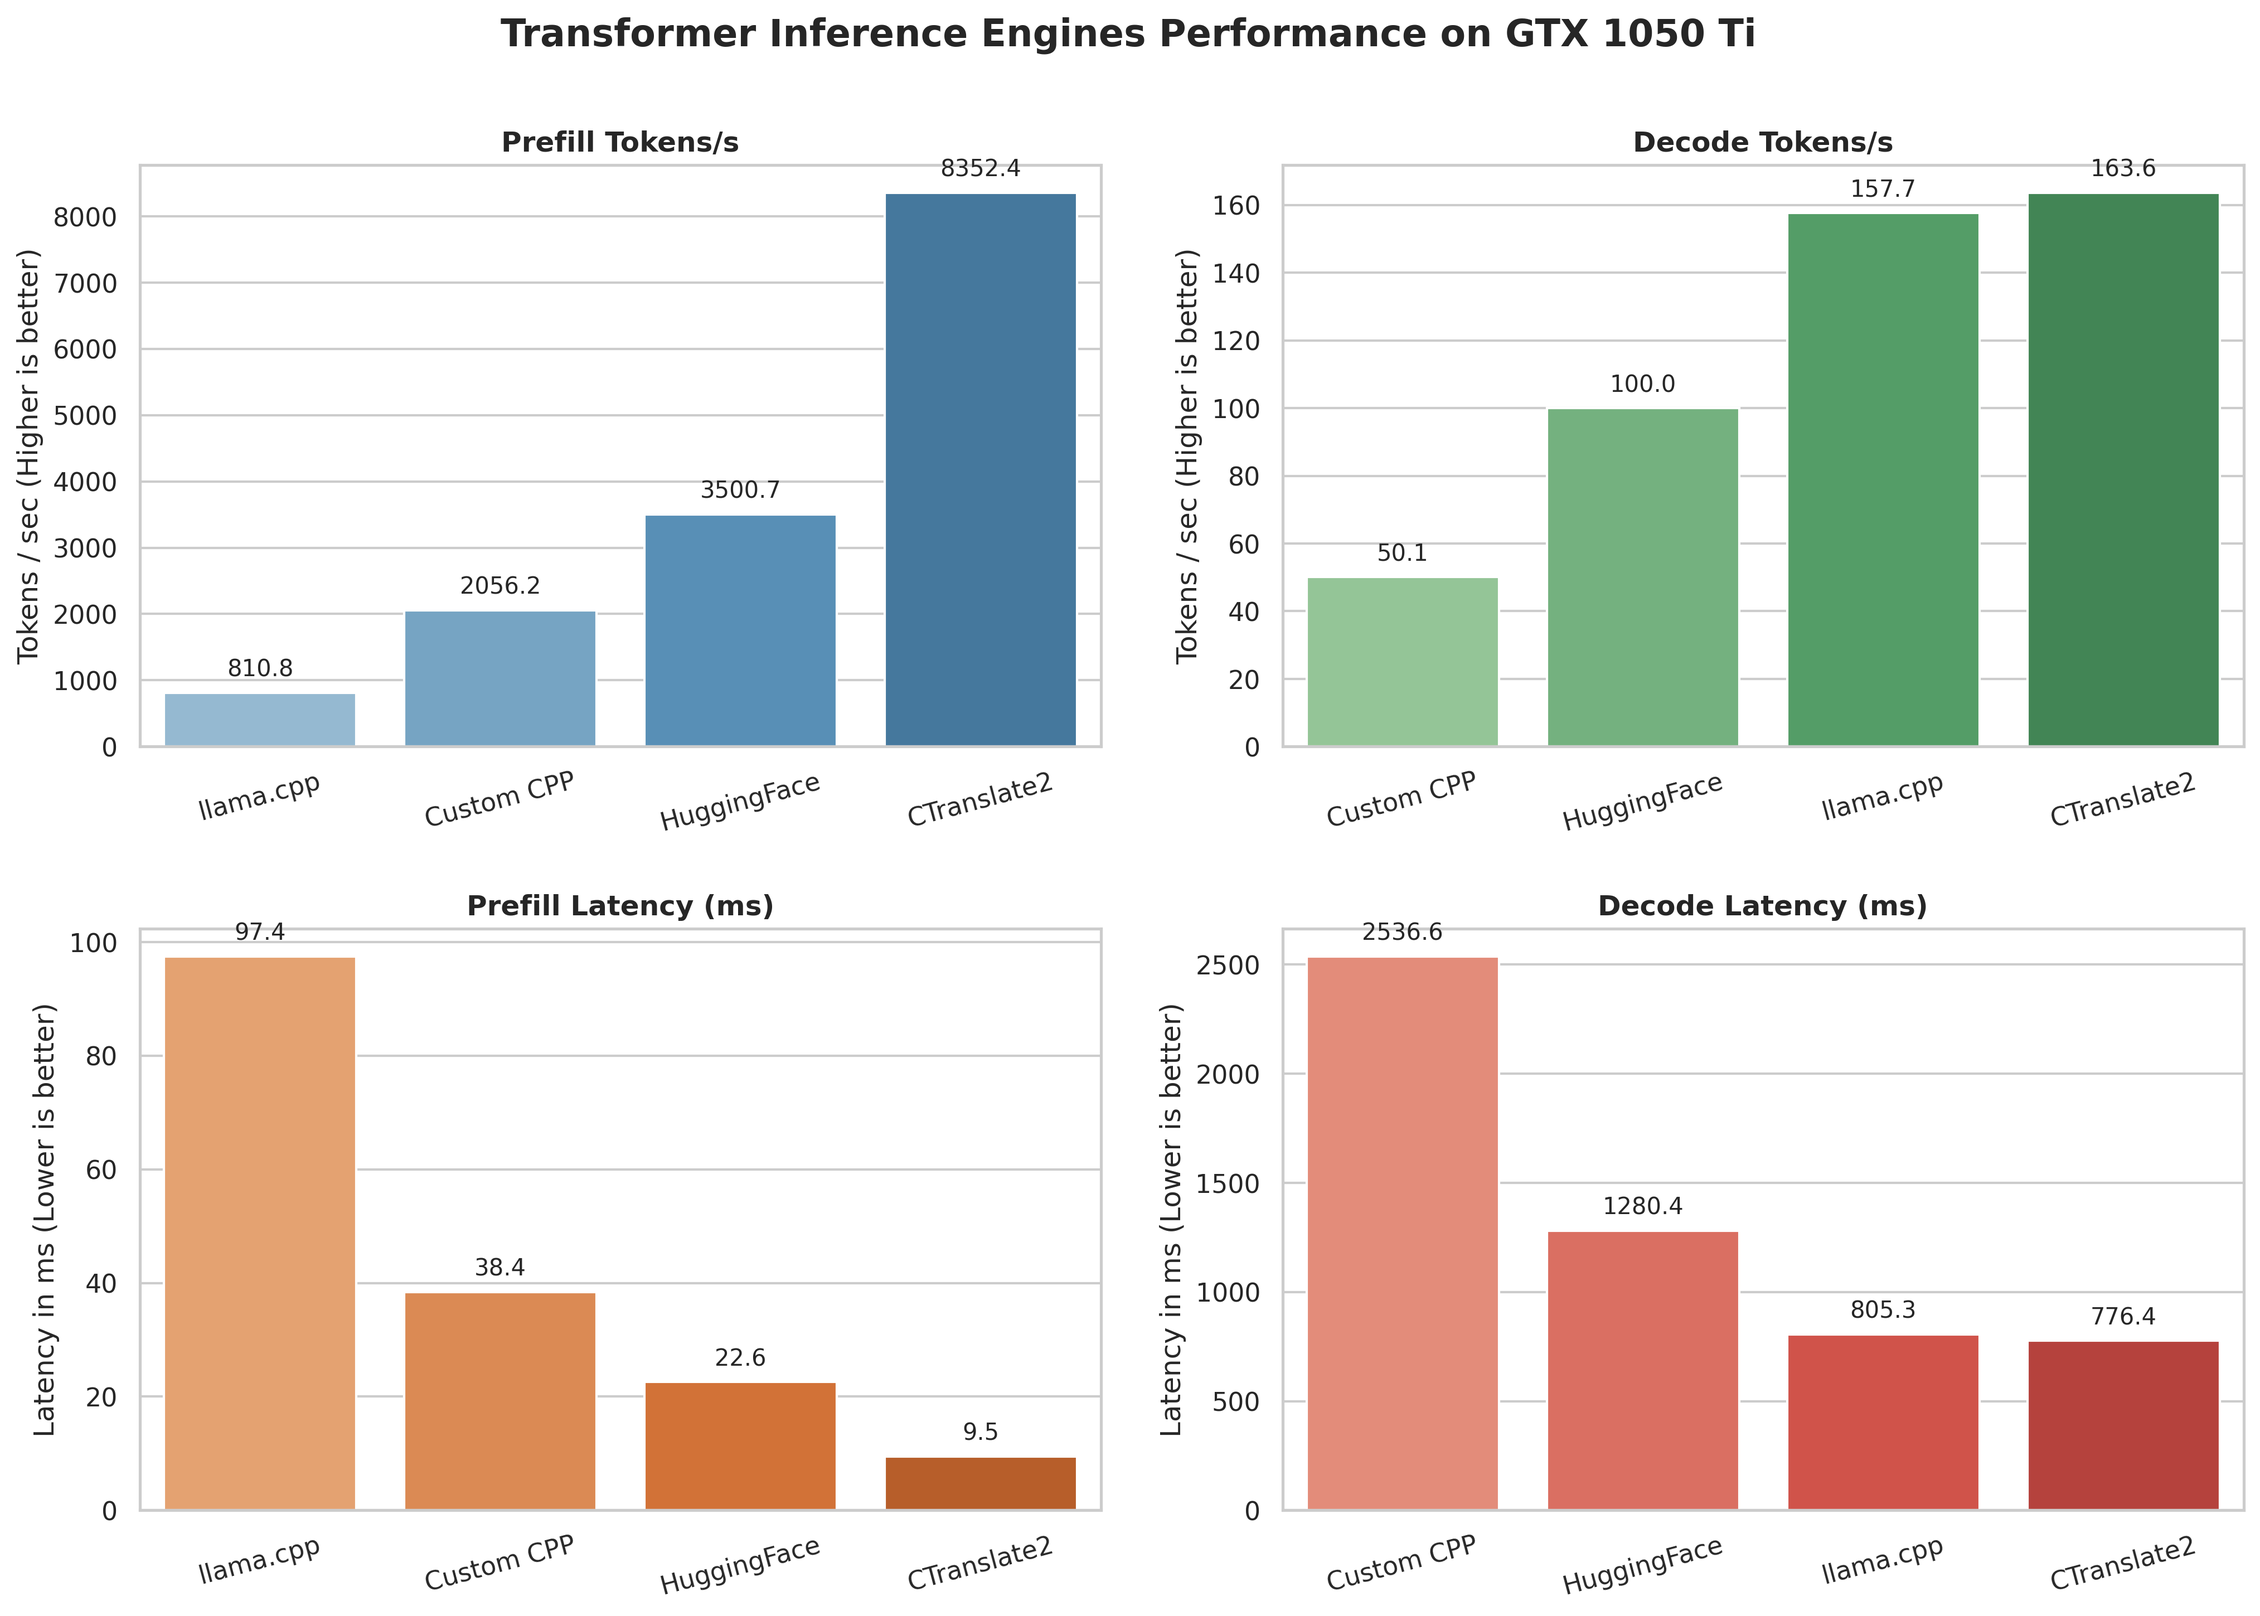
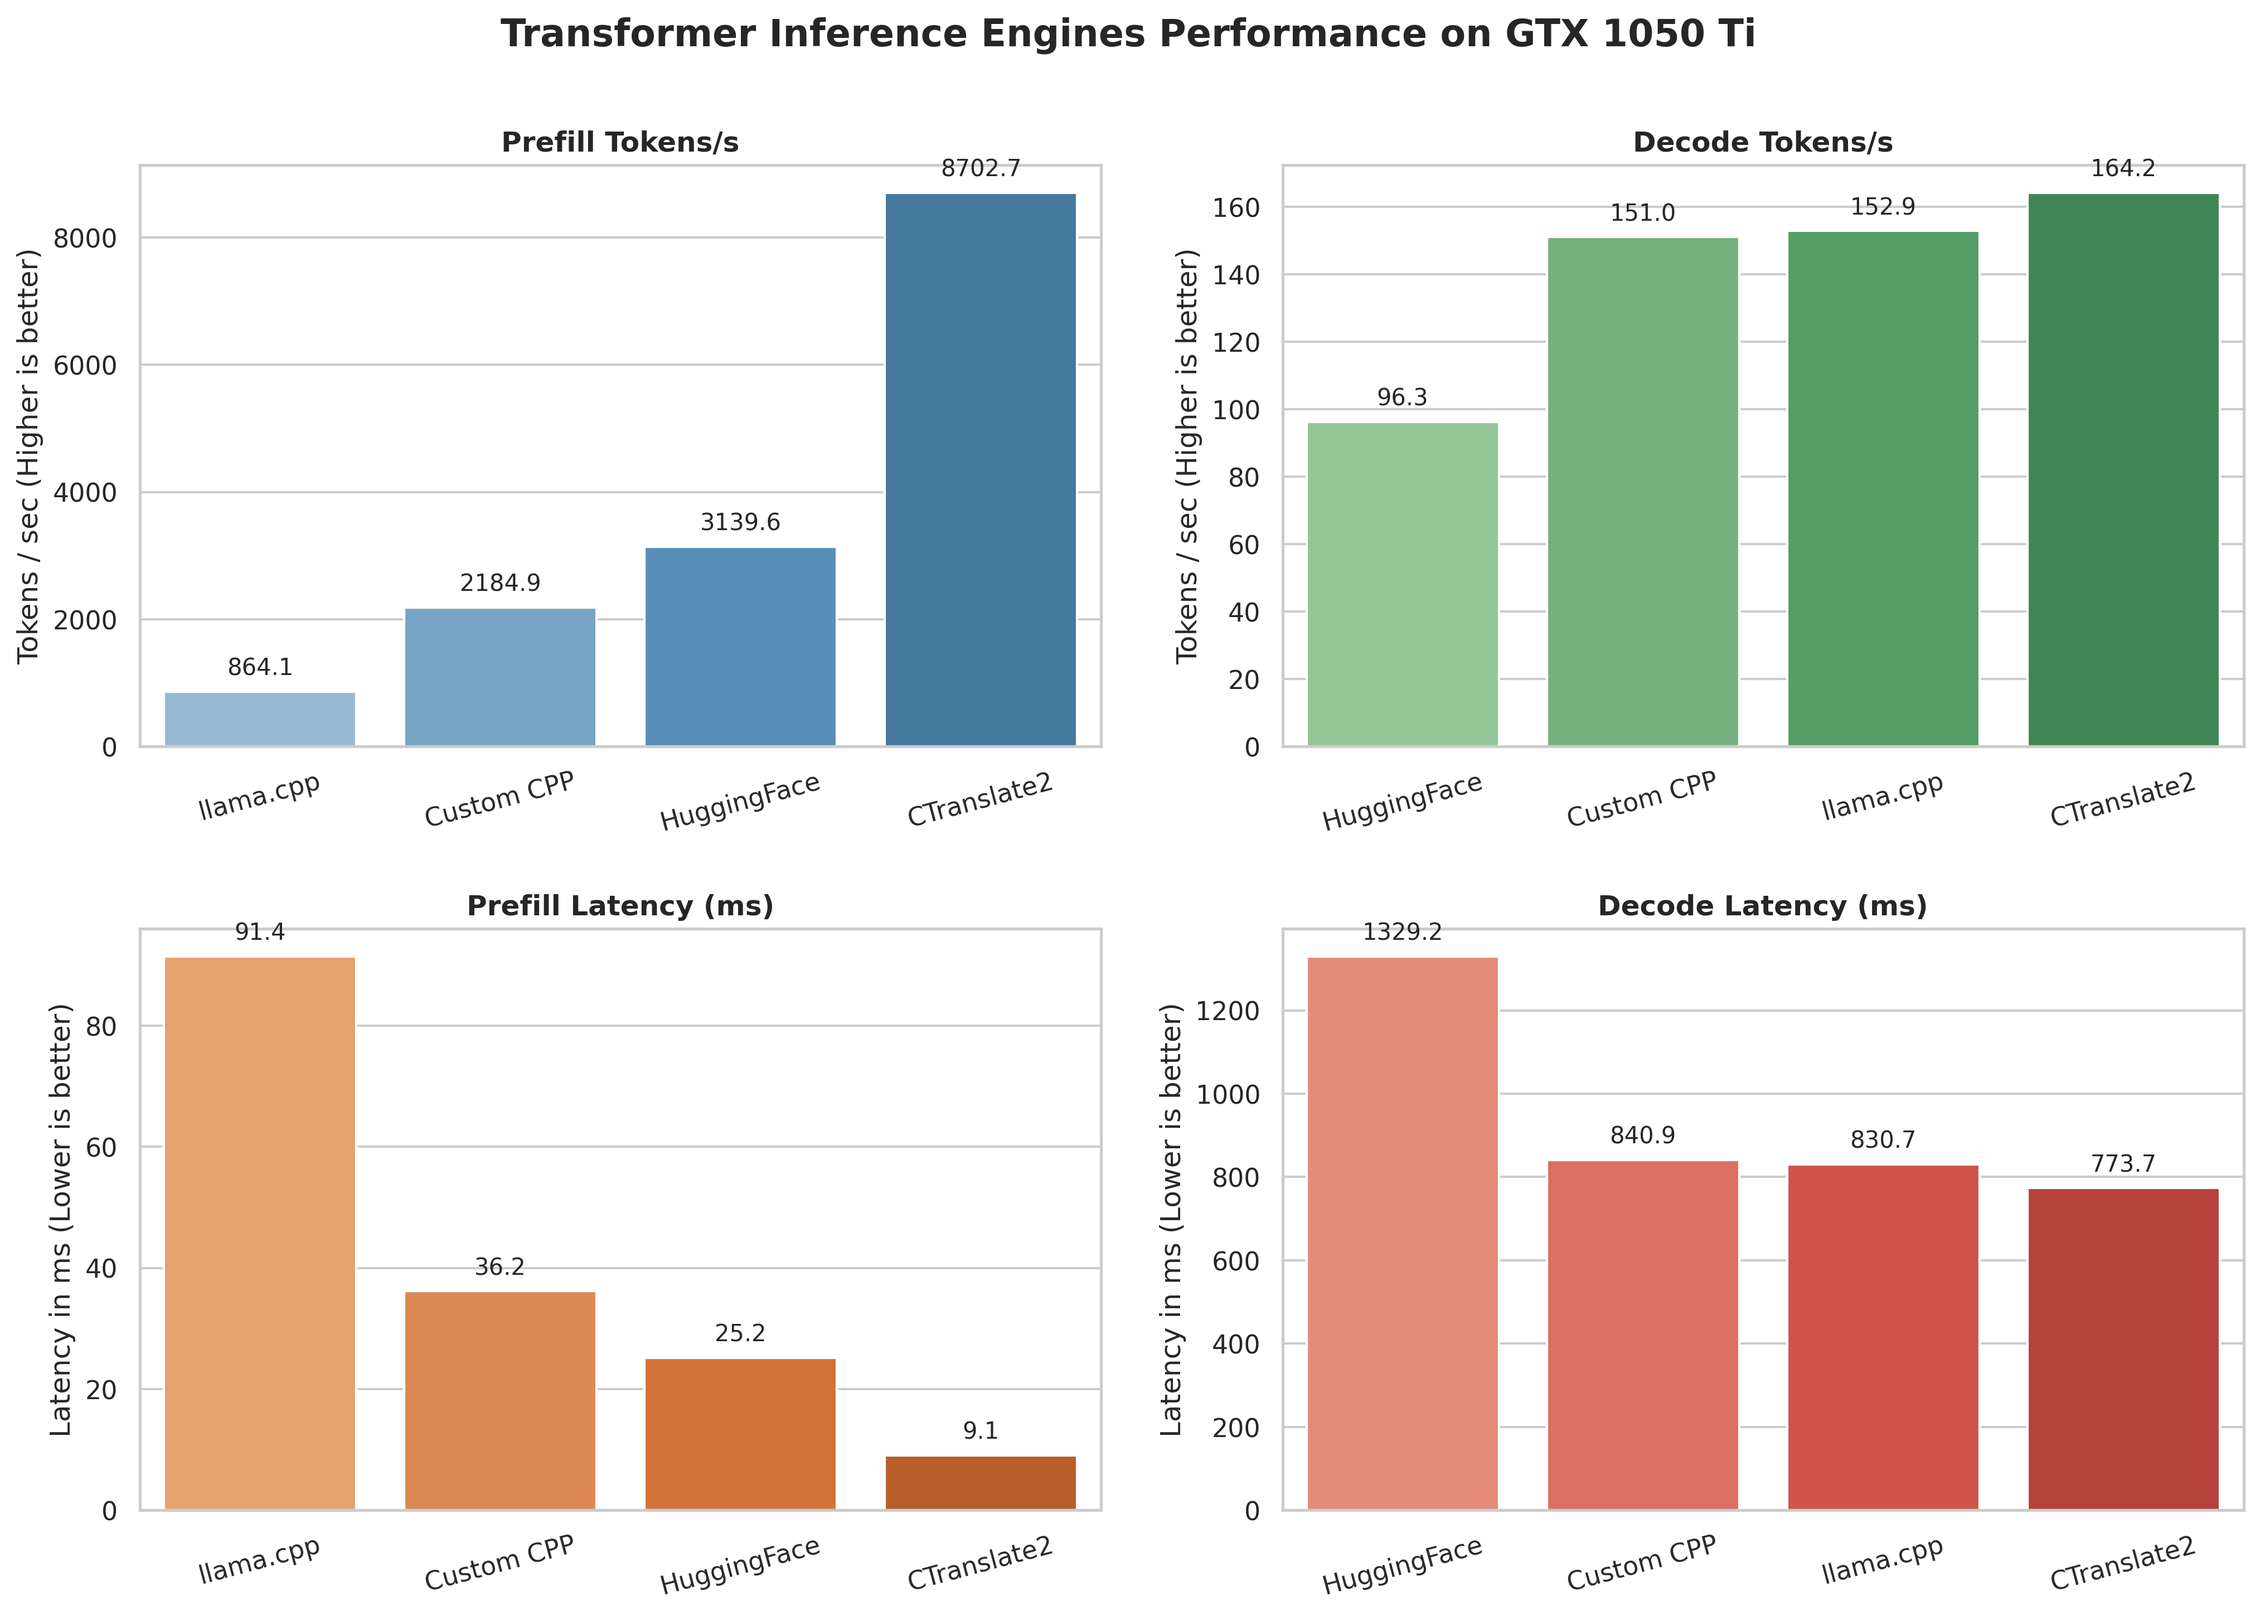
crazy crazy almost reached and beat lamma in latency wowowowo

diff --git a/README.md b/README.md
@@ -17,10 +17,10 @@ This engine takes the opposite approach: every CUDA kernel, every memory allocat
 
 | Metric | Current |
 |---|---|
-| **Prefill Throughput** | ~2,056 tok/s |
-| **Decode Throughput** | ~50 tok/s |
-| **TTFT (79 tokens)** | ~38 ms |
-| **Decode Latency (128 tokens)** | ~2,537 ms |
+| **Prefill Throughput** | ~2,185 tok/s |
+| **Decode Throughput** | ~151 tok/s |
+| **TTFT (79 tokens)** | ~36 ms |
+| **Decode Latency (128 tokens)** | ~841 ms |
 | **Weight Memory** | 622 MB / 632 MB (98.4%) |
 | **KV Cache Memory** | 72 MB (12 layers) |
 | **Scratch Memory** | 1136 MB |
@@ -215,9 +215,9 @@ make -j$(nproc)
  brilliant mathematician, and he was a great friend of mine.
 
 --- Performance Metrics ---
-Prefill Time:  38.42 ms (2056 tok/s)
-Decode Time:   2536.6 ms (50.1 tok/s) for 128 tokens
-Total Time:    2575.0 ms
+Prefill Time:  36.16 ms (2185 tok/s)
+Decode Time:   840.92 ms (151.0 tok/s) for 128 tokens
+Total Time:    877.08 ms
 ```
 
 ## Benchmark Suite
@@ -243,6 +243,7 @@ Key optimizations planned and completed:
 
 - [x] **Register-Tiled GEMM** — 3× speedup over textbook shared-memory tiling by having each thread compute an 8×8 sub-tile in registers (achieving ~58% of cuBLAS on square matrices).
 - [x] **KV Cache** — Contiguous KV cache with O(N) decode. Decode throughput improved from ~21 tok/s to ~50 tok/s (2.4× speedup). Each decode step projects only the new token and attends against cached K/V history.
+- [x] **GEMV M=1 Dispatch** — Replaced generic tiled GEMM with specialized GEMV kernels for single-token decode steps. Decode throughput improved from ~50 tok/s to ~151 tok/s (3× speedup).
 - [ ] **Fused Decode Attention Kernel** — Replace the current gather + transpose + batched-GEMM decode path with a single fused kernel that reads directly from cache layout, eliminating intermediate memory traffic.
 - [ ] **Kernel Fusion** — Fuse LayerNorm + QKV projection, bias + GELU, and other adjacent operations to reduce memory bandwidth pressure and kernel launch overhead.
 - [ ] **Memory-Efficient Attention** — Reduce the O(S²) attention memory footprint to enable longer sequences within 4GB VRAM.
